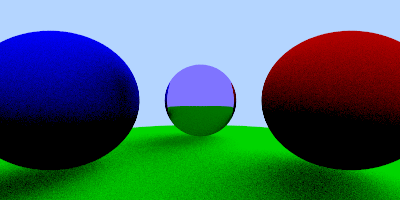
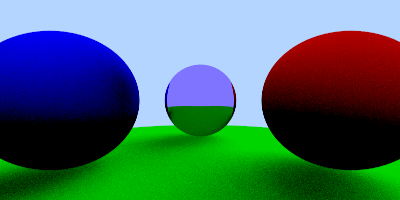
refactored rendering

diff --git a/lib/camera.go b/lib/camera.go
@@ -13,26 +13,9 @@ type Camera struct {
 	FOVMultiplier float64
 }
 
-// CastRay casts a ray from the camera's origin to a point on the screen
-func (cam *Camera) CastRay(x int, y int) *Ray {
-	if cam.FOVMultiplier == 0 {
-		cam.FOVMultiplier = 1
-	}
-	xNoise := (1.0 / float64(cam.ScreenWidth)) *
-		(rand.Float64()*2.0 - 1.0) / 2.0 * cam.FOVMultiplier
-	yNoise := (1.0 / float64(cam.ScreenHeight)) *
-		(rand.Float64()*2.0 - 1.0) / 2.0 * cam.FOVMultiplier
-	return &Ray{
-		Position: cam.Position,
-		Direction: Vec{
-			cam.Position.X +
-				(float64(x)/float64(cam.ScreenWidth)-0.5)*
-					float64(cam.ScreenWidth)/float64(cam.ScreenHeight)*
-					cam.FOVMultiplier + xNoise,
-			cam.Position.Y +
-				(float64(y)/float64(cam.ScreenHeight)-0.5)*
-					cam.FOVMultiplier + yNoise,
-			cam.Position.Z + 1}.Norm()}
+// RenderPixel renders a pixel
+func (cam *Camera) RenderPixel(world Surface, x, y, maxDepth int) Color {
+	return cam.RenderRay(world, cam.CastRay(x, y), 0, maxDepth)
 }
 
 // RenderRay renders a ray
@@ -56,7 +39,24 @@ func (cam *Camera) RenderRay(world Surface, ray *Ray, depth, maxDepth int) Color
 	return scatterResult.Albedo.Multiply(scatteredPixel)
 }
 
-// RenderPixel renders a pixel
-func (cam *Camera) RenderPixel(world Surface, x, y, maxDepth int) Color {
-	return cam.RenderRay(world, cam.CastRay(x, y), 0, maxDepth)
+// CastRay casts a ray from the camera's origin to a point on the screen
+func (cam *Camera) CastRay(x int, y int) *Ray {
+	if cam.FOVMultiplier == 0 {
+		cam.FOVMultiplier = 1
+	}
+	xNoise := (1.0 / float64(cam.ScreenWidth)) *
+		(rand.Float64()*2.0 - 1.0) / 2.0 * cam.FOVMultiplier
+	yNoise := (1.0 / float64(cam.ScreenHeight)) *
+		(rand.Float64()*2.0 - 1.0) / 2.0 * cam.FOVMultiplier
+	return &Ray{
+		Position: cam.Position,
+		Direction: Vec{
+			cam.Position.X +
+				(float64(x)/float64(cam.ScreenWidth)-0.5)*
+					float64(cam.ScreenWidth)/float64(cam.ScreenHeight)*
+					cam.FOVMultiplier + xNoise,
+			cam.Position.Y +
+				(float64(y)/float64(cam.ScreenHeight)-0.5)*
+					cam.FOVMultiplier + yNoise,
+			cam.Position.Z + 1}.Norm()}
 }

diff --git a/main.go b/main.go
@@ -2,14 +2,9 @@ package main
 
 import (
 	"fmt"
-	"image"
-	"image/color"
 	"image/png"
 	"log"
-	"math"
 	"os"
-	"runtime"
-	"sync"
 
 	"github.com/neverix/pathcaster/lib"
 )
@@ -17,7 +12,7 @@ import (
 const (
 	width    = 400
 	height   = 200
-	samples  = 50
+	samples  = 100
 	maxDepth = 3
 )
 
@@ -49,43 +44,16 @@ func main() {
 			Radius: 4,
 			Shader: &lib.ReflectiveShader{Color: lib.Color{
 				R: 0.5, G: 0.3, B: 1}}}}
+
 	camera := lib.Camera{
 		Position:      lib.Vec{X: 0, Y: 0, Z: 0.3},
 		ScreenWidth:   width,
 		ScreenHeight:  height,
 		FOVMultiplier: 1.5}
-
-	canvas := image.NewRGBA(image.Rect(0, 0, width, height))
-	var workerWg sync.WaitGroup
-	CPUs := runtime.NumCPU()
-	widthPerCPU := width / CPUs
-	if width%CPUs != 0 {
-		CPUs++
-	}
-	workerWg.Add(CPUs)
-	for CPU := 0; CPU < CPUs; CPU++ {
-		go func(id int) {
-			for x := widthPerCPU * id; x < width && x < widthPerCPU*(id+1); x++ {
-				for y := 0; y < height; y++ {
-					var rTotal, gTotal, bTotal float64
-					for i := 0; i < samples; i++ {
-						r, g, b := camera.RenderPixel(surfaces, x, y, maxDepth).Unwrap()
-						rTotal += r
-						gTotal += g
-						bTotal += b
-					}
-					color := color.RGBA{
-						uint8(math.Sqrt(math.Min(rTotal/samples, 1)) * 255),
-						uint8(math.Sqrt(math.Min(gTotal/samples, 1)) * 255),
-						uint8(math.Sqrt(math.Min(bTotal/samples, 1)) * 255),
-						255}
-					canvas.Set(x, y, color)
-				}
-			}
-			workerWg.Done()
-		}(CPU)
-	}
-	workerWg.Wait()
+	renderConfig := lib.RenderConfig{
+		MaxDepth: maxDepth,
+		Samples:  samples}
+	canvas := camera.RenderSurface(surfaces, renderConfig)
 
 	outputFile, err := os.Create("render.png")
 	if err != nil {

diff --git a/lib/render.go b/lib/render.go
@@ -1,0 +1,52 @@
+package lib
+
+import (
+	"image"
+	"image/color"
+	"math"
+	"runtime"
+	"sync"
+)
+
+// RenderConfig is a configuration for raytracing
+type RenderConfig struct {
+	MaxDepth int
+	Samples  int
+}
+
+// RenderSurface renders an entire image
+func (cam *Camera) RenderSurface(world Surface, renderConfig RenderConfig) *image.RGBA {
+	canvas := image.NewRGBA(image.Rect(0, 0, cam.ScreenWidth, cam.ScreenHeight))
+	var workerWg sync.WaitGroup
+	CPUs := runtime.NumCPU()
+	widthPerCPU := cam.ScreenWidth / CPUs
+	if cam.ScreenWidth%CPUs != 0 {
+		CPUs++
+	}
+	workerWg.Add(CPUs)
+	for CPU := 0; CPU < CPUs; CPU++ {
+		go func(id int) {
+			for x := widthPerCPU * id; x < cam.ScreenWidth && x < widthPerCPU*(id+1); x++ {
+				for y := 0; y < cam.ScreenHeight; y++ {
+					var rTotal, gTotal, bTotal float64
+					for i := 0; i < renderConfig.Samples; i++ {
+						r, g, b := cam.RenderPixel(world, x, y, renderConfig.MaxDepth).Unwrap()
+						rTotal += r
+						gTotal += g
+						bTotal += b
+					}
+					color := color.RGBA{
+						uint8(math.Sqrt(math.Min(rTotal/float64(renderConfig.Samples), 1)) * 255),
+						uint8(math.Sqrt(math.Min(gTotal/float64(renderConfig.Samples), 1)) * 255),
+						uint8(math.Sqrt(math.Min(bTotal/float64(renderConfig.Samples), 1)) * 255),
+						255}
+					canvas.Set(x, y, color)
+				}
+			}
+			workerWg.Done()
+		}(CPU)
+	}
+	workerWg.Wait()
+
+	return canvas
+}
